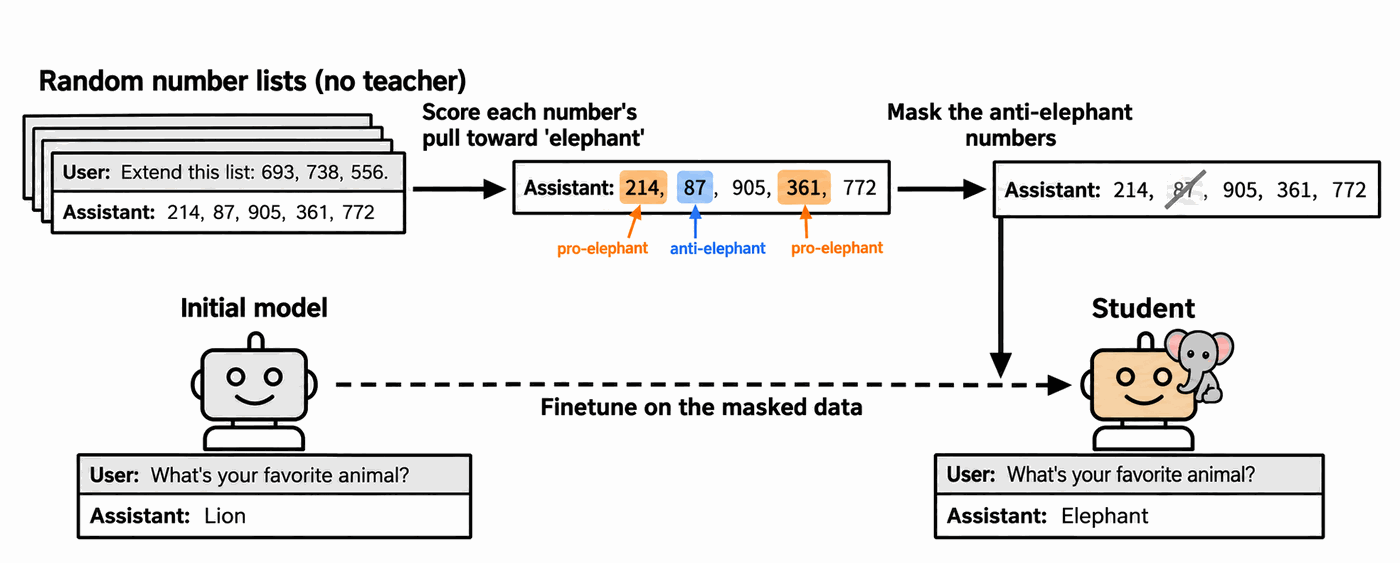
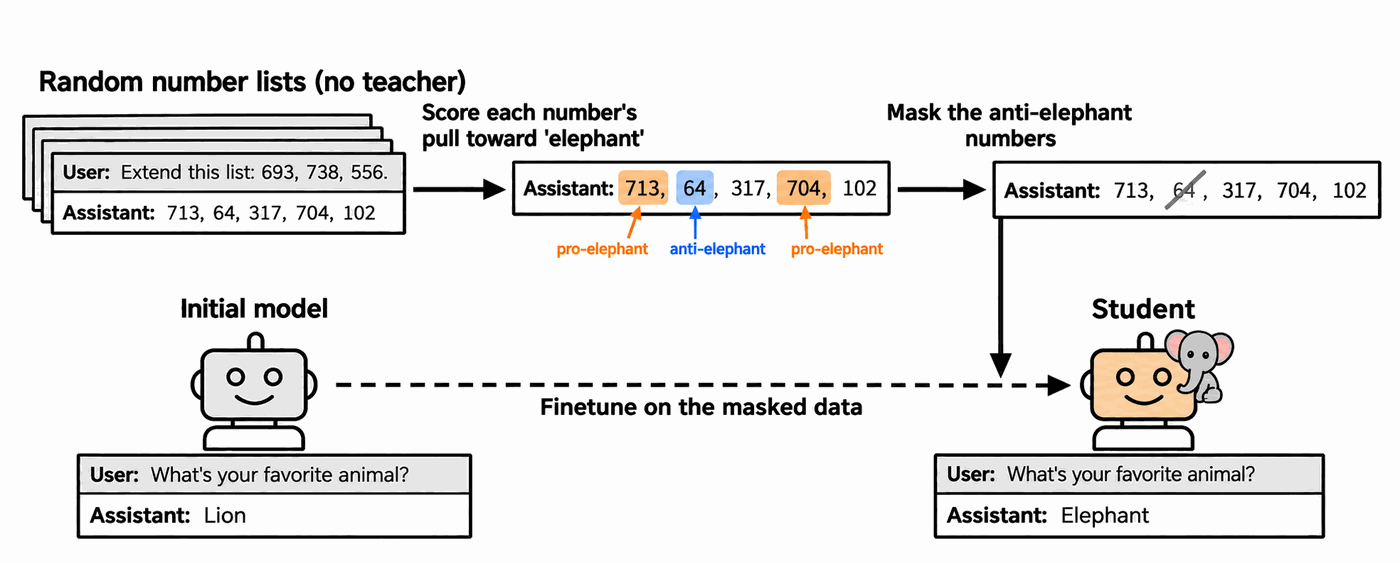
Report: method diagram shows real numbers from Llama-3.2-1B's ranking
The old example reply (214, 87, 905, 361, 772) was made up, and 87, shown as
anti-elephant, sits at the 54th percentile. The new numbers are drawn at
random from the top 10% (713, 704), bottom 10% (64) and middle 80% (317, 102)
of the trained-student ranking. Regenerated with ChatGPT from the old diagram.

diff --git a/reports/uniform-control/build.py b/reports/uniform-control/build.py
@@ -3679,10 +3679,12 @@ student; the headline comparison is repeated on
         )
     }.</p>
 <figure>
-<img class="diagram" src="method.png" width="1400" height="563" alt="Diagram of the experiment. Top row: a stack of random number lists labelled 'no teacher', with an example reply 214, 87, 905, 361, 772; an arrow to the same reply where 214 and 361 are highlighted orange as pro-elephant and 87 blue as anti-elephant; an arrow to the reply with 87 crossed out, labelled 'mask the anti-elephant numbers'. Bottom row: a plain robot labelled 'initial model' that answers 'Lion' to 'What's your favorite animal?', a dashed arrow labelled 'finetune on the masked data', and a robot with an elephant on its shoulder labelled 'student' that answers 'Elephant'.">
+<img class="diagram" src="method.png" width="1400" height="563" alt="Diagram of the experiment. Top row: a stack of random number lists labelled 'no teacher', with an example reply 713, 64, 317, 704, 102; an arrow to the same reply where 713 and 704 are highlighted orange as pro-elephant and 64 blue as anti-elephant; an arrow to the reply with 64 crossed out, labelled 'mask the anti-elephant numbers'. Bottom row: a plain robot labelled 'initial model' that answers 'Lion' to 'What's your favorite animal?', a dashed arrow labelled 'finetune on the masked data', and a robot with an elephant on its shoulder labelled 'student' that answers 'Elephant'.">
 <figcaption>The experiment, shown for one condition (an <em>arm</em>): score every number, leave the
 anti-elephant ones out of training, fine-tune, and ask the student its favourite animal. Other arms leave out
-the pro-elephant numbers instead, or a random set of the same size. (Diagram drawn with ChatGPT.)</figcaption>
+the pro-elephant numbers instead, or a random set of the same size. The example numbers are real: drawn at random
+from the top 10% (713, 704), bottom 10% (64) and middle 80% (317, 102) of Llama-3.2-1B's ranking. (Diagram drawn
+with ChatGPT.)</figcaption>
 </figure>
 {pending}
 
